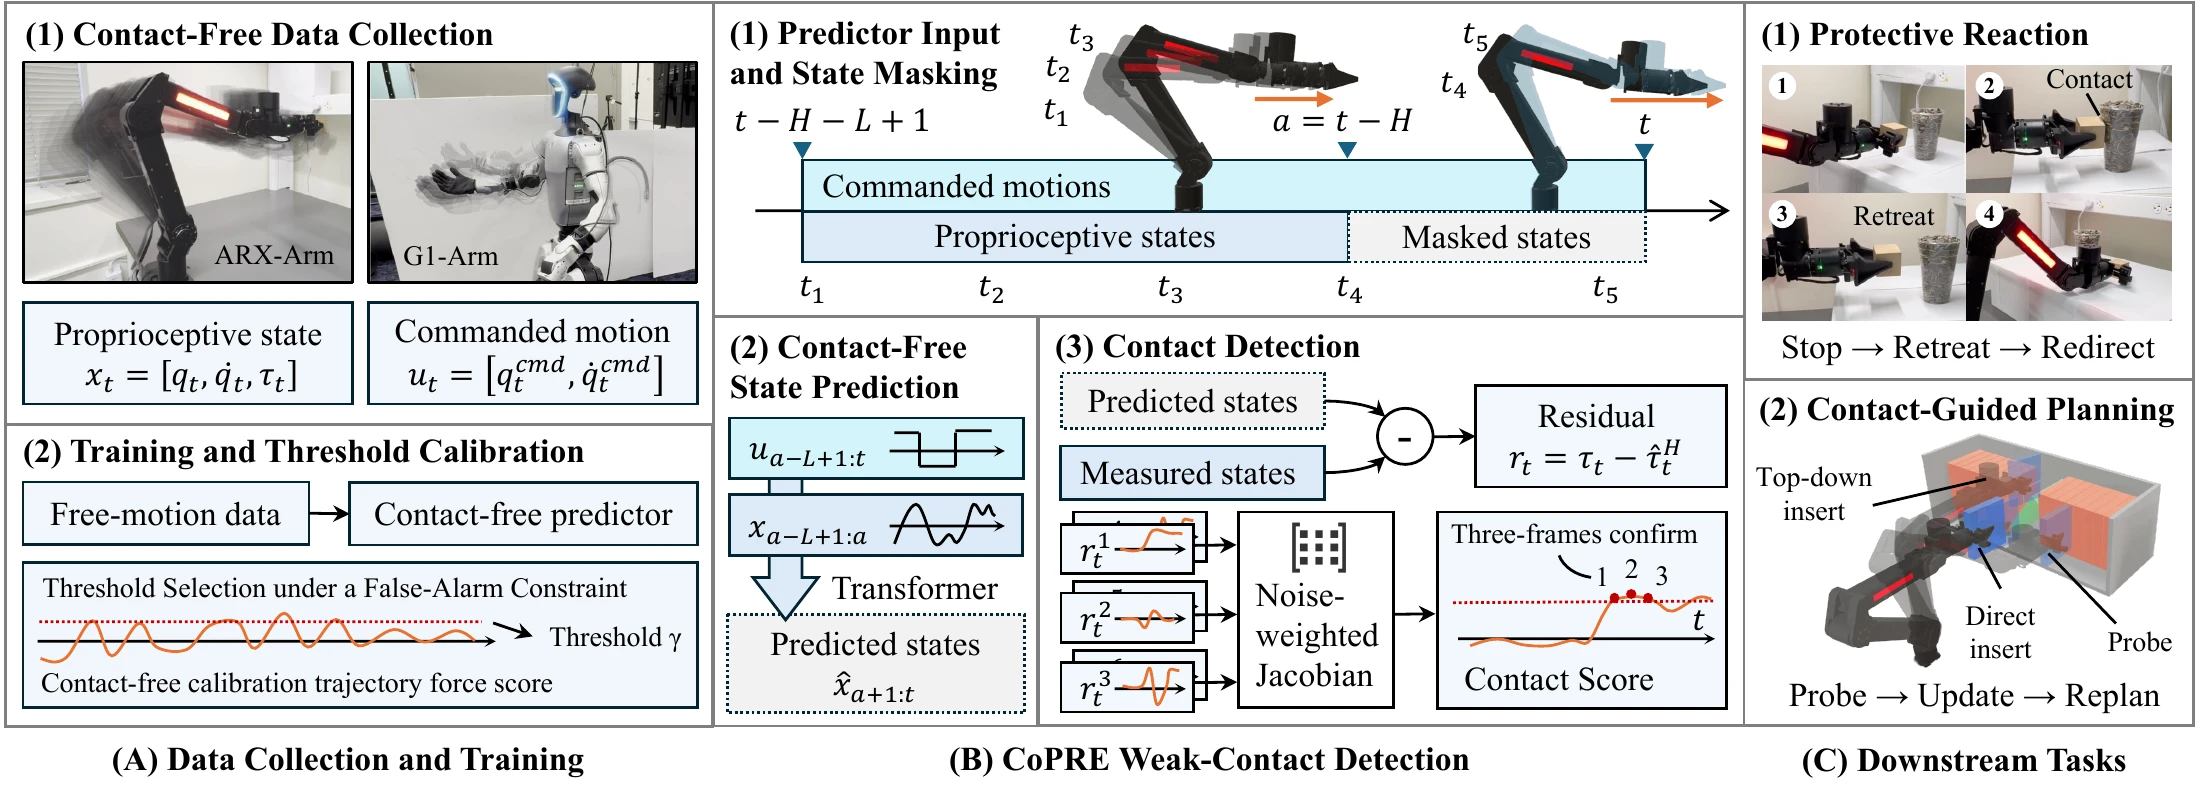
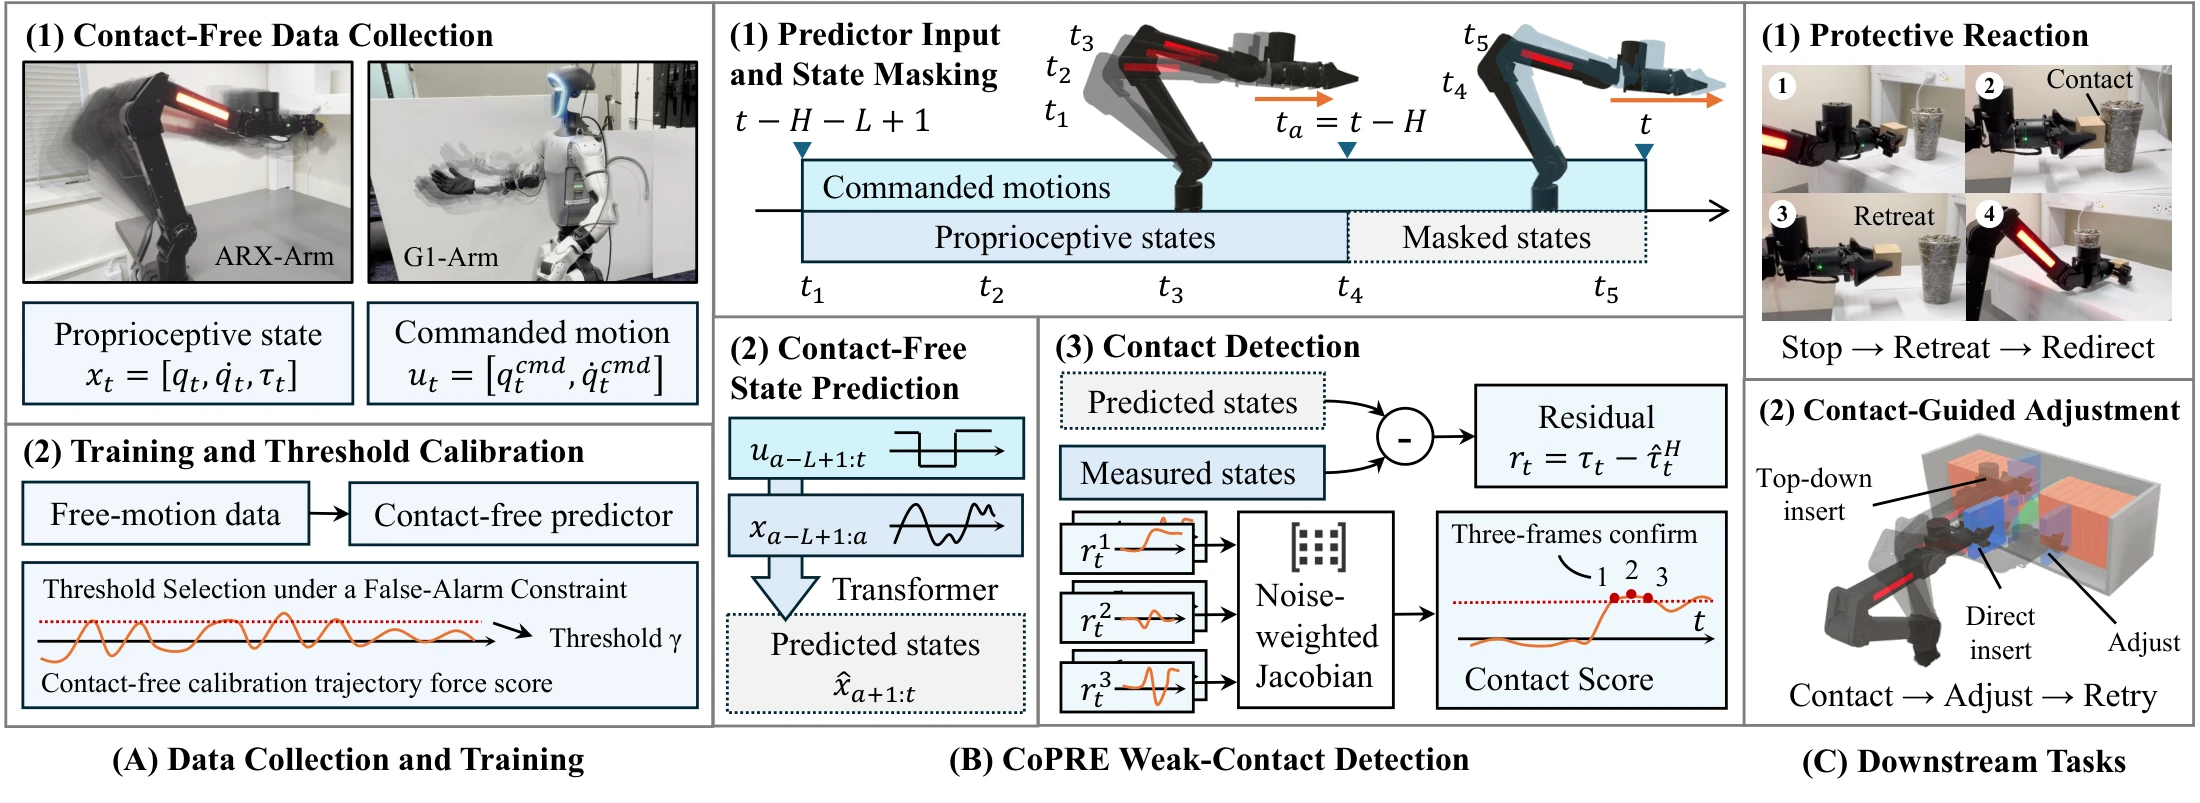
Update CoPRE website with two-platform results and manipulation demonstrations

diff --git a/index.html b/index.html
@@ -5,7 +5,7 @@
   <meta name="viewport" content="width=device-width, initial-scale=1">
   <meta name="description" content="CoPRE learns contact-free robot responses from proprioception to detect weak contact without additional force sensors or force labels.">
   <meta name="theme-color" content="#245cce">
-  <title>CoPRE · Proprioceptive Weak-Contact Detection</title>
+  <title>CoPRE · Improving Sensitivity in Proprioceptive Contact Detection</title>
   <link rel="icon" href="assets/favicon.svg" type="image/svg+xml">
   <link rel="stylesheet" href="styles.css">
 </head>
@@ -17,6 +17,8 @@
       <div class="nav-links">
         <a href="#overview">Overview</a>
         <a href="#method">Method</a>
+        <a href="#results">Results</a>
+        <a href="#manipulation">Manipulation</a>
         <a href="#resources">Resources</a>
       </div>
     </nav>
@@ -25,16 +27,17 @@
   <main id="main">
     <section class="hero container" id="home" aria-labelledby="project-title">
       <p class="eyebrow">Learning to sense contact</p>
-      <h1 id="project-title"><span class="project-name">CoPRE</span>Proprioceptive Weak-Contact Detection<br class="desktop-break"> for Low-Cost Robot Arms</h1>
+      <h1 id="project-title"><span class="project-name">CoPRE</span>Improving Sensitivity in Proprioceptive Contact Detection<br class="desktop-break"> for Low-Cost Robot Arms</h1>
       <p class="hero-description">Detecting subtle physical interactions through the signals<br class="desktop-break"> a robot already has.</p>
       <div class="hero-actions">
         <a class="button primary" href="#method">Explore the method <span aria-hidden="true">↗</span></a>
-        <a class="button secondary" href="#resources">Project resources <span aria-hidden="true">↓</span></a>
+        <a class="button secondary" href="#results">See the results <span aria-hidden="true">↓</span></a>
       </div>
       <ul class="feature-tags" aria-label="Key properties">
         <li>Built-in proprioception</li>
         <li>Contact-free training</li>
         <li>No force labels</li>
+        <li>Validated on ARX L5 and G1</li>
       </ul>
       <figure class="teaser">
         <img src="assets/teaser.webp" width="1900" height="1295" fetchpriority="high" alt="CoPRE project illustration: ARX and G1 arms interacting with books, followed by ARX protective retreat and contact-guided insertion examples.">
@@ -48,9 +51,9 @@
         <h2 id="overview-title">Small contacts.<br>Useful feedback.</h2>
       </div>
       <div class="prose">
-        <p>Low-cost robot arms already measure their own motion and actuator response. These signals offer a way to sense physical interaction without adding dedicated force sensors. But weak contact can be hidden by the torque variations of ordinary motion.</p>
-        <p><strong>Contact-free Proprioceptive Response Estimation (CoPRE)</strong> learns how a robot responds during contact-free motion. It predicts the current response from an earlier state history and known commands, then compares predicted and measured joint torque to obtain evidence of contact.</p>
-        <p>The key is when the predictor looks: measurements inside the interval being tested are reserved for detection, so they cannot alter the nominal prediction for that interval.</p>
+        <p>Robots use contact feedback to stop when blocked and adjust their next motion. On low-cost arms, contact-induced joint torque changes can be small relative to normal motion variations and noise. We call these interactions <strong>weak contact</strong>.</p>
+        <p><strong>Contact-free Proprioceptive Response Estimation (CoPRE)</strong> learns the joint torque expected during contact-free motion from built-in joint states and motor signals. Training and calibration use only contact-free recordings, without additional force sensors or force labels.</p>
+        <p>Two designs preserve sensitivity: the predictor withholds state observations within the prediction interval, and noise-weighted Jacobian aggregation combines the torque residuals into a contact score. Experiments evaluate both designs on the ARX L5 and the G1 right arm.</p>
       </div>
     </section>
 
@@ -59,27 +62,77 @@
         <div class="method-heading">
           <div>
             <p class="eyebrow">02 / Method</p>
-            <h2 id="method-title">Predict the motion.<br>Listen to the difference.</h2>
+            <h2 id="method-title">Predict nominal torque.<br>Detect contact-induced changes.</h2>
           </div>
-          <p class="section-intro">Separate the information used for prediction from the response used as contact evidence.</p>
+          <p class="section-intro">Keep contact-induced changes in the residual and account for each joint’s variability during contact-free motion.</p>
         </div>
         <ol class="steps">
           <li><span class="step-number" aria-hidden="true">01</span><h3>Learn free motion</h3><p>Train on contact-free state and command logs. Calibrate the detection threshold using separate contact-free recordings.</p></li>
-          <li><span class="step-number" aria-hidden="true">02</span><h3>Predict from an earlier state</h3><p>Use a pre-interval history and known commands to predict the response, withholding state measurements within the tested interval.</p></li>
-          <li><span class="step-number" aria-hidden="true">03</span><h3>Turn residuals into feedback</h3><p>Compare measured and predicted torque. Convert the residual into contact evidence that can inform the robot’s next action.</p></li>
+          <li><span class="step-number" aria-hidden="true">02</span><h3>Predict from an earlier state</h3><p>Use earlier state–command history and known commands to predict nominal torque. Withhold state observations inside the prediction interval so recent contact cannot alter that reference.</p></li>
+          <li><span class="step-number" aria-hidden="true">03</span><h3>Weight and combine residuals</h3><p>Remove nominal bias and combine torque residuals through a noise-weighted Jacobian. Three consecutive samples above the calibrated threshold confirm contact.</p></li>
         </ol>
         <figure class="framework">
           <a href="assets/framework.webp" aria-label="Open the full-resolution CoPRE method diagram">
             <img src="assets/framework.webp" width="2200" height="803" loading="lazy" alt="CoPRE pipeline: contact-free collection and calibration, a Transformer predictor with recent states masked, torque residuals and contact confirmation, followed by protective reactions or contact-guided planning.">
           </a>
-          <figcaption>From contact-free data to contact-aware action. <a href="assets/framework.webp">View full-size diagram <span aria-hidden="true">↗</span></a></figcaption>
+          <figcaption>The score indicates contact; it is not a validated force measurement. <a href="assets/framework.webp">View full-size diagram <span aria-hidden="true">↗</span></a></figcaption>
+        </figure>
+      </div>
+    </section>
+
+    <section class="section container" id="results" aria-labelledby="results-title">
+      <div class="method-heading">
+        <div>
+          <p class="eyebrow">03 / Experiments</p>
+          <h2 id="results-title">Evaluated on two<br>robot platforms.</h2>
+        </div>
+        <p class="section-intro">Each arm pushes five book stacks at three speeds, with three repetitions per condition: 45 physical trials per robot.</p>
+      </div>
+      <div class="result-grid">
+        <article class="result-card">
+          <p class="platform-label">ARX L5 · Six-joint arm</p>
+          <h3><span class="metric">74.1<span>%</span></span> overall trial recall</h3>
+          <p>Both the adapted neural and nominal dynamics baselines detect 0% of trials under combined calibration.</p>
+          <dl class="metric-details"><div><dt>Reference resistance at 90% detection</dt><dd>3.5 N</dd></div><div><dt>Held-out broad-motion alarm time</dt><dd>3.32%</dd></div></dl>
+        </article>
+        <article class="result-card">
+          <p class="platform-label">Unitree G1 · Seven-joint right arm</p>
+          <h3><span class="metric">82.2<span>%</span></span> overall trial recall</h3>
+          <p>The adapted neural baseline reaches 16.3% recall and the nominal dynamics baseline reaches 42.2%.</p>
+          <dl class="metric-details"><div><dt>Reference resistance at 90% detection</dt><dd>5.5 N</dd></div><div><dt>Held-out broad-motion alarm time</dt><dd>0.86%</dd></div></dl>
+        </article>
+      </div>
+      <div class="evaluation-note">
+        <p>Comparisons use shared calibration rules within each robot. Combined calibration includes task-matched and broader contact-free motion: ARX permits zero confirmed calibration alarms; G1 uses a 1% alarm-time budget in each calibration motion set. The two platforms use separate training and calibration.</p>
+        <p>Recall is averaged over three model seeds. Detection is evaluated from a geometric contact reference through push end on ARX, and within 0.5 s on G1. Reference resistances are measured separately at sliding onset. The reported 90% criterion must also hold at all higher tested levels; these values are not forces measured at the instant of detection.</p>
+      </div>
+      <figure class="framework result-figure">
+        <a href="assets/arx-results.webp" aria-label="Open full-resolution ARX detection results"><img src="assets/arx-results.webp" width="2200" height="909" loading="lazy" alt="ARX book-pushing results across reference resistances of 1.5 to 5.5 newtons. CoPRE retains detections under combined calibration; both baselines lose detections."></a>
+        <figcaption><span>ARX scores at 0.04 m/s, normalized by the detection threshold. Blue uses combined calibration; orange uses task-matched calibration. Percentages pool all three speeds.</span><a href="assets/arx-results.webp">View full-size results ↗</a></figcaption>
+      </figure>
+      <p class="result-takeaway">Matched ablations support state exclusion and noise-weighted aggregation on both robots. The transformer is a shared benchmark configuration; a GRU achieves better G1 results in the predictor-family ablation.</p>
+    </section>
+
+    <section class="method-section" id="manipulation" aria-labelledby="manipulation-title">
+      <div class="container section">
+        <div class="method-heading">
+          <div><p class="eyebrow">04 / Manipulation</p><h2 id="manipulation-title">Use contact to guide<br>the next attempt.</h2></div>
+          <p class="section-intro">Qualitative ARX demonstrations connect contact detection to protective retreat and belief-guided retries.</p>
+        </div>
+        <div class="task-grid">
+          <article><h3>Protective retreat during placement</h3><p>When a cup blocks placement of a carried block, detected contact triggers a stop and retreat. The robot places the block at an alternate location, leaving the cup upright.</p></article>
+          <article><h3>Contact-guided book insertion</h3><p>Contact with a neighboring book blocks the first attempt. Feedback updates a spatial belief map and guides an adjusted insertion pose; the next attempt succeeds.</p></article>
+        </div>
+        <figure class="framework">
+          <a href="assets/manipulation.webp" aria-label="Open full-resolution manipulation demonstrations"><img src="assets/manipulation.webp" width="2200" height="922" loading="lazy" alt="Two ARX demonstrations: protective retreat and alternate placement beside a cup, and pose adjustment followed by a successful book insertion retry."></a>
+          <figcaption><span>Placement and insertion sequences on ARX. These are qualitative demonstrations; task-success rates have not been quantified.</span><a href="assets/manipulation.webp">View full-size sequences ↗</a></figcaption>
         </figure>
       </div>
     </section>
 
     <section class="section container resources" id="resources" aria-labelledby="resources-title">
       <div class="section-heading">
-        <p class="eyebrow">03 / Resources</p>
+        <p class="eyebrow">05 / Resources</p>
         <h2 id="resources-title">Explore the project.</h2>
         <p>Materials will be linked here as they become available.</p>
       </div>

diff --git a/styles.css b/styles.css
@@ -100,3 +100,26 @@ dd { margin: 0; }
   html { scroll-behavior: auto; }
   .button { transition: none; }
 }
+
+.result-grid, .task-grid { display: grid; grid-template-columns: repeat(2, minmax(0, 1fr)); gap: 24px; margin: 40px 0 28px; }
+.result-card { border: 1px solid var(--line); border-radius: 12px; padding: 28px; }
+.platform-label { color: var(--accent); font-size: .875rem; font-weight: 600; }
+.result-card h3 { color: var(--muted); font-size: .95rem; font-weight: 400; margin: 20px 0; }
+.metric { display: block; color: var(--ink); font-size: clamp(3rem, 5vw, 4.4rem); font-weight: 650; letter-spacing: -.05em; line-height: 1.1; }
+.metric > span { font-size: .5em; }
+.result-card > p:last-of-type, .task-grid p { color: var(--muted); }
+.metric-details { margin: 24px 0 0; }
+.metric-details > div { display: flex; gap: 24px; justify-content: space-between; padding: 12px 0; border-top: 1px solid var(--line); font-size: .875rem; }
+.metric-details dt { font-weight: 400; color: var(--muted); }
+.metric-details dd { white-space: nowrap; font-weight: 600; }
+.evaluation-note { color: var(--muted); font-size: .875rem; max-width: 940px; }
+.evaluation-note p + p { margin-top: 12px; }
+.result-figure { margin-top: 36px; }
+.result-takeaway { margin-top: 24px; color: var(--muted); }
+.task-grid { gap: 48px; margin-bottom: 36px; }
+@media (max-width: 760px) {
+  .result-grid, .task-grid { grid-template-columns: 1fr; gap: 20px; }
+  .result-card { padding: 22px; }
+  .nav { flex-wrap: wrap; padding-block: 16px; }
+  .nav-links { gap: .5rem 1rem; }
+}

diff --git a/README.md b/README.md
@@ -1,6 +1,6 @@
 # CoPRE project website
 
-Independent static website for **CoPRE: Proprioceptive Weak-Contact Detection for Low-Cost Robot Arms**.
+Independent static website for **CoPRE: Improving Sensitivity in Proprioceptive Contact Detection for Low-Cost Robot Arms**.
 
 ## Local preview
 
@@ -18,9 +18,9 @@ Open <http://localhost:8000>. No package installation or build step is required.
 - `styles.css`: colors, typography, spacing, and responsive layout.
 - `assets/`: self-contained copies of the project figures and favicon.
 
-The figures were exported from `tex/images/teaser.pdf` and `tex/images/framework.pdf` in the research workspace. This website does not load files from the parent repository. Update its copies explicitly when figures change.
+The figures were exported from the corresponding PDFs in `../icra27-overleaf/images/`. This website does not load files from the parent repository. Update its copies explicitly when figures change.
 
-Paper, research code, and video are marked “Coming soon.” Replace their status text with real links when released. Add the confirmed author list when appropriate. Numerical experiment claims are intentionally omitted from this initial page because the source manuscript includes draft-result notes.
+Paper, research code, and video are marked “Coming soon.” Replace their status text with real links when released. Add the confirmed author list when appropriate. The results section reports the manuscript’s combined-calibration benchmark on ARX L5 and G1, including within-platform calibration rules and reference-force interpretation. Manipulation sequences are qualitative.
 
 ## GitHub Pages
 
